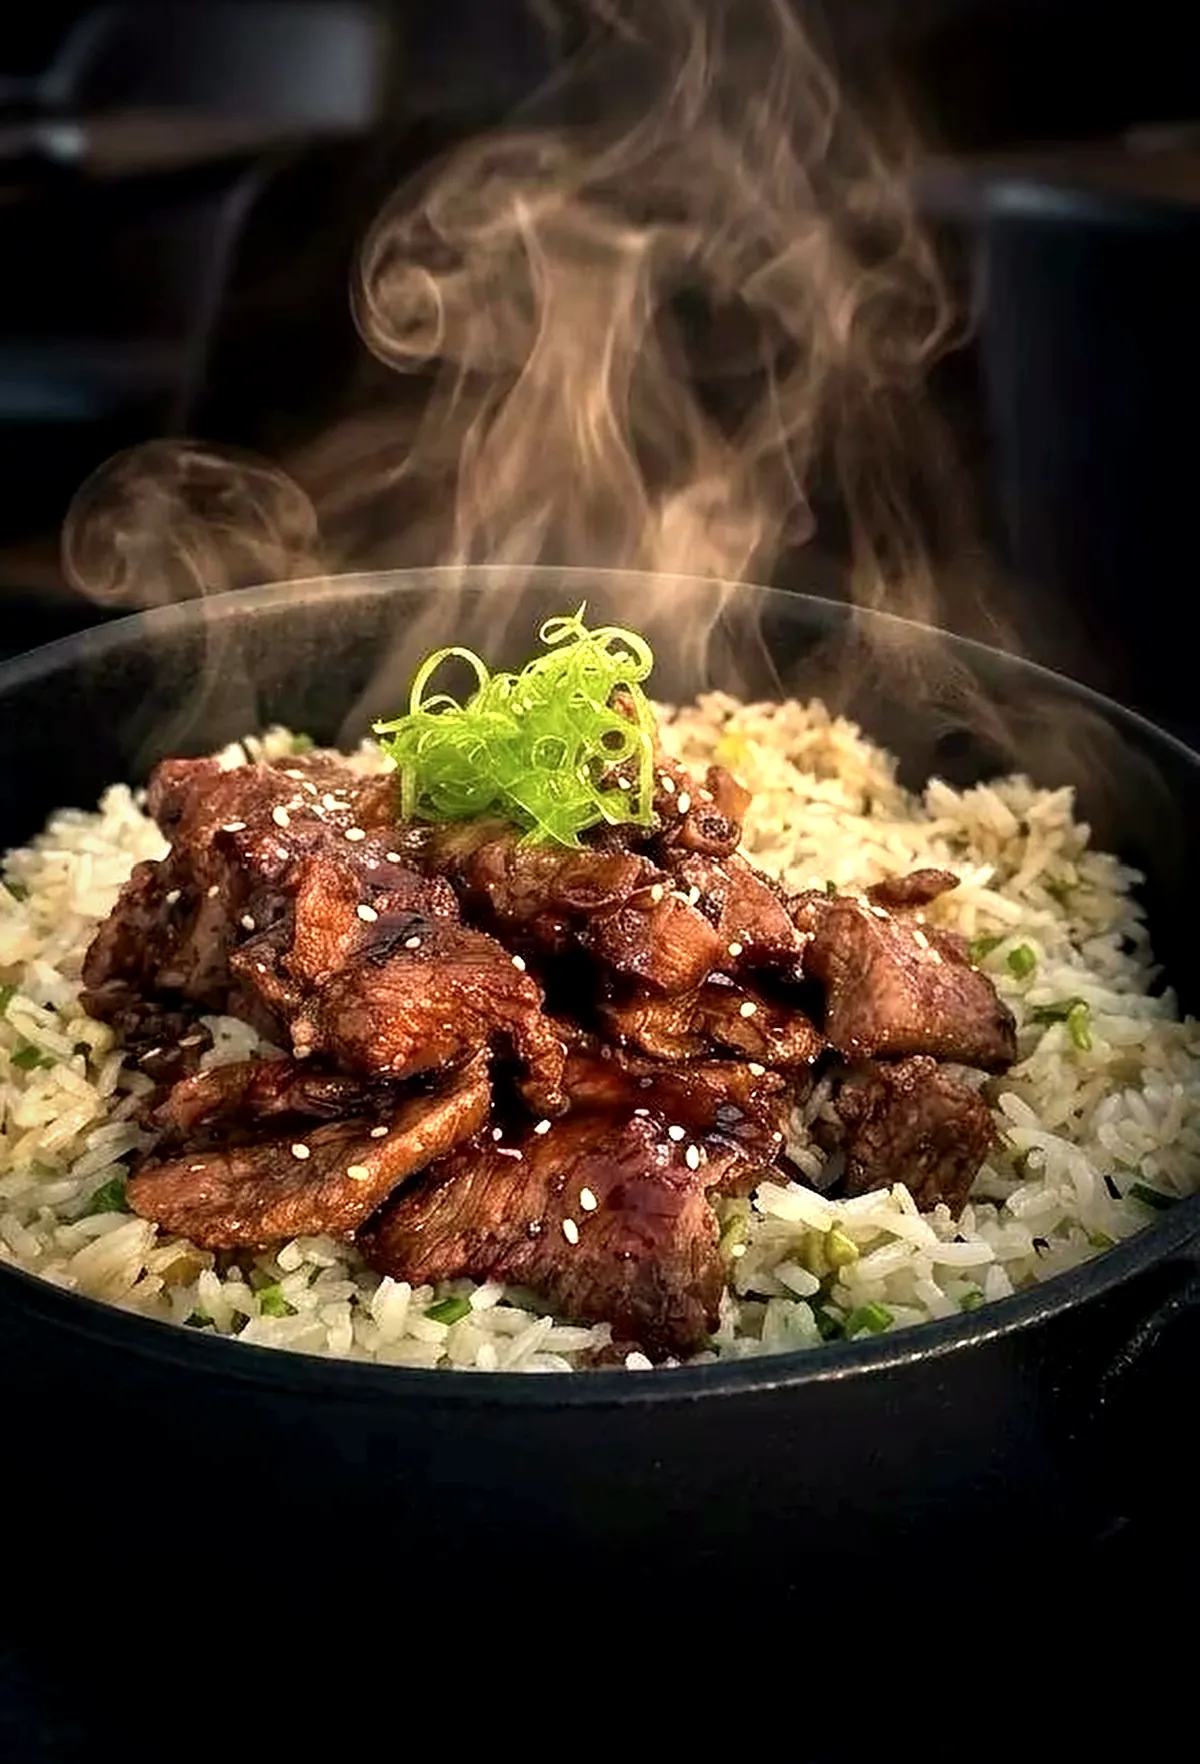
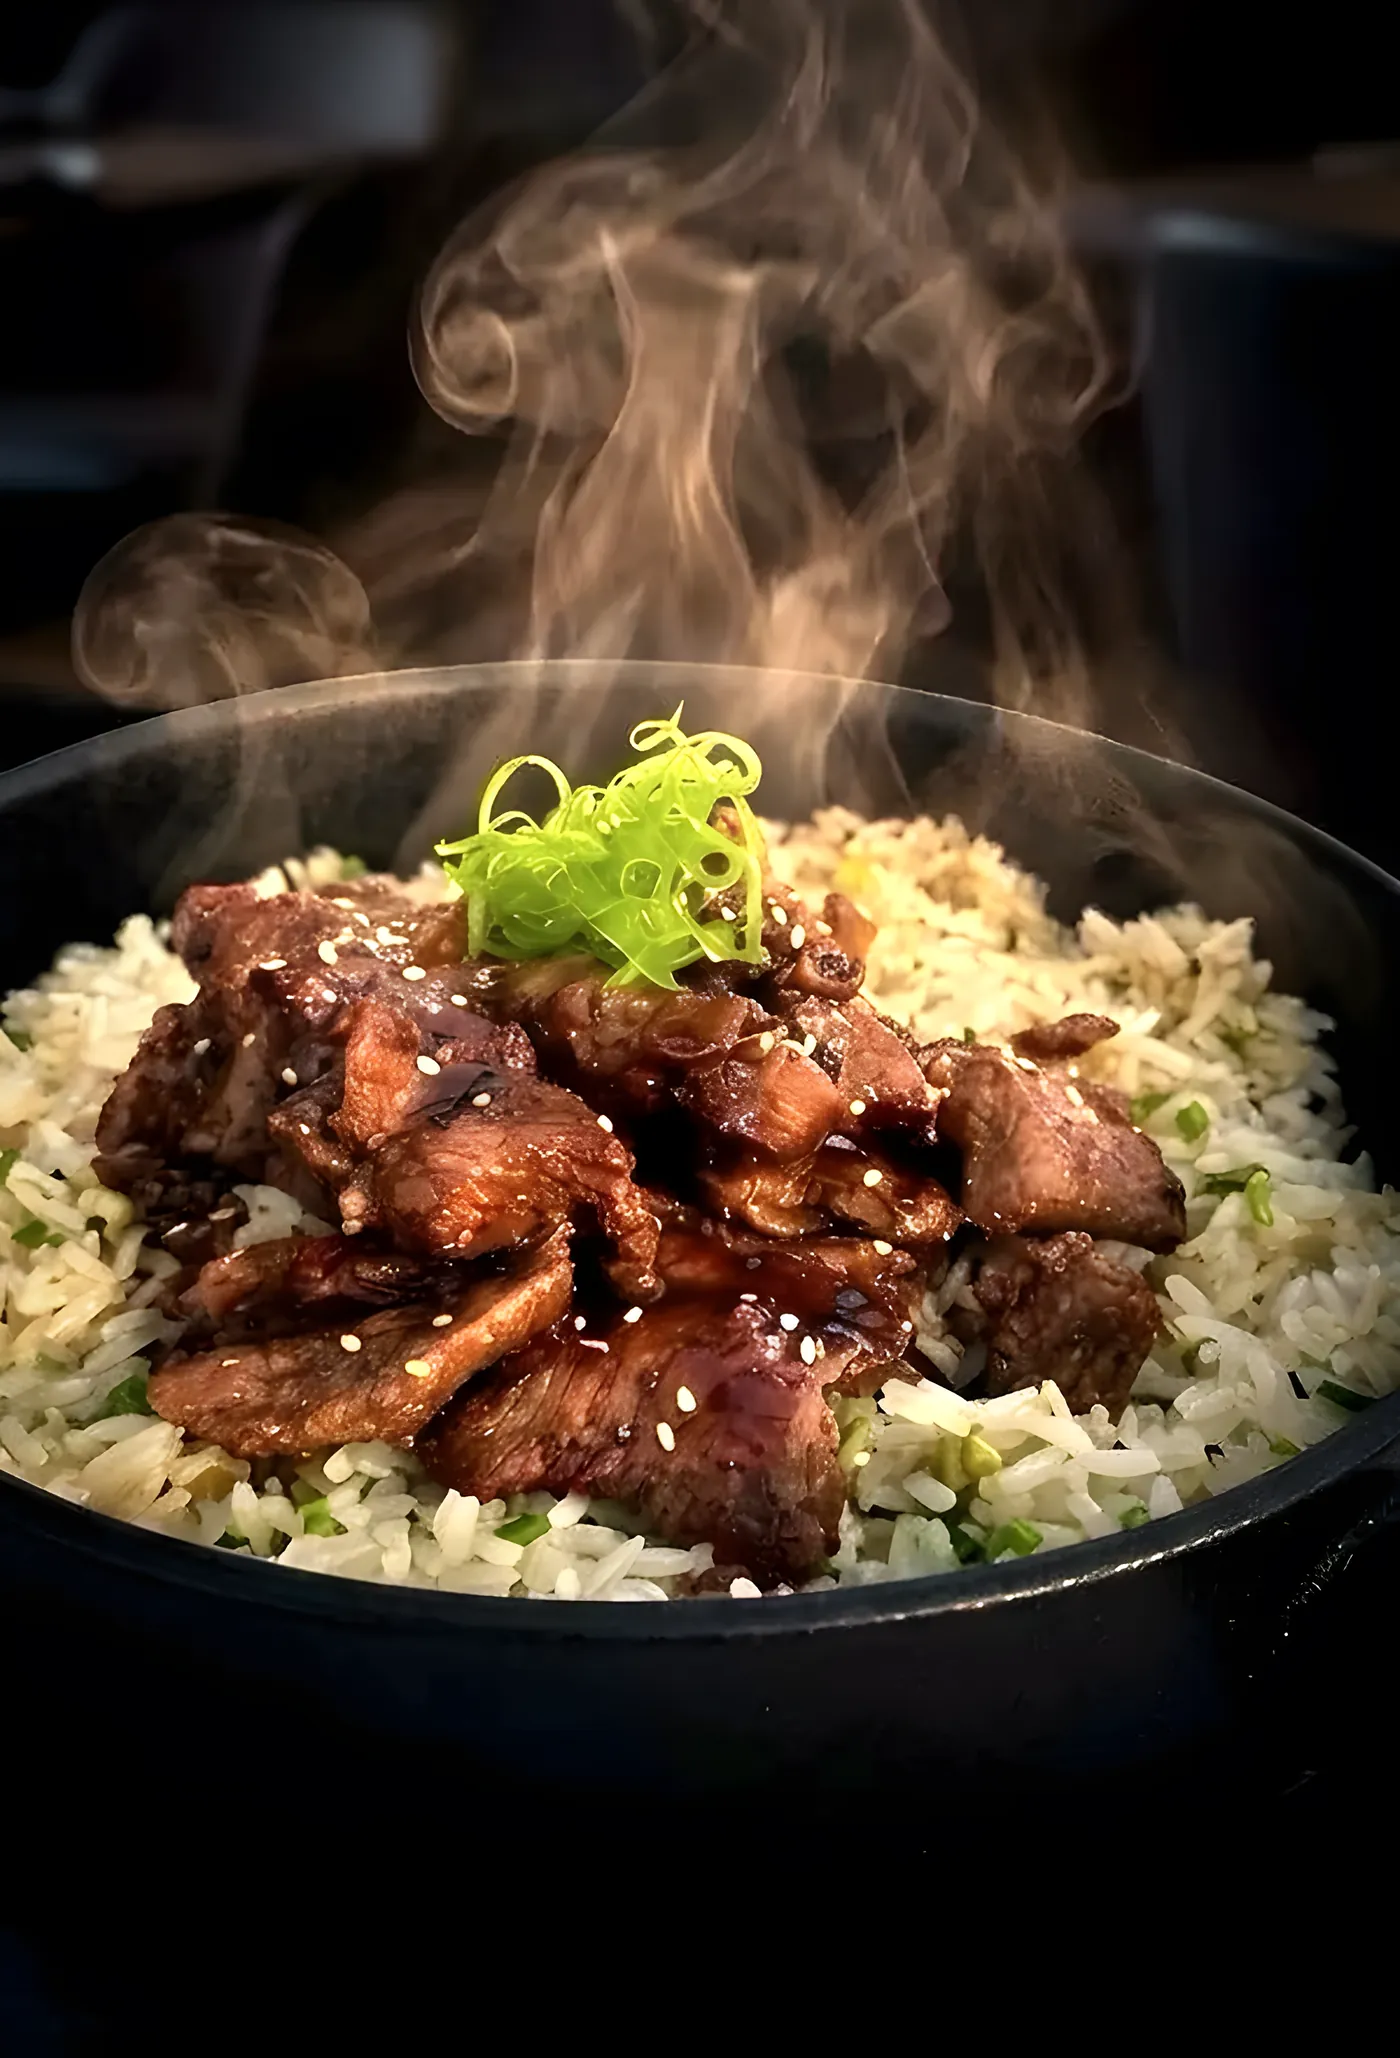
feat(media): fotos restauradas com super-resolução (Real-ESRGAN) em 1400px
As 21 fotos (pratos e bar) estavam moles (capturas ampliadas). Restauradas com
Real-ESRGAN x4plus mantendo o recorte e o tratamento de cor; saída 1400px WebP.
Card em destaque com foto horizontal usa 4:3 no celular (não corta as laterais).

Claude-Session: https://claude.ai/code/session_019aJQUxbSJerFoShsGptvPq

diff --git a/data/media.ts b/data/media.ts
@@ -37,88 +37,88 @@ const photo = (id: string, width: number, height: number, alt: Localized): Media
   m({ id, kind: "image", src: `/media/${id}.webp`, width, height, alt, available: true });
 
 export const photos = {
-  hamachiRollNigiri: photo("hamachi-roll-nigiri", 1200, 1686, {
+  hamachiRollNigiri: photo("hamachi-roll-nigiri", 1400, 1967, {
     es: "Roll y nigiri de hamachi flameado sobre hoja de plátano",
     en: "Seared hamachi roll and nigiri on a banana leaf",
   }),
-  lomoSaltadoCausa: photo("lomo-saltado-causa", 1200, 1493, {
+  lomoSaltadoCausa: photo("lomo-saltado-causa", 1400, 1741, {
     es: "Lomo saltado con causa limeña y salsa criolla",
     en: "Lomo saltado with causa limeña and criolla salad",
   }),
-  arrozCamaron: photo("arroz-camaron", 1200, 1193, {
+  arrozCamaron: photo("arroz-camaron", 1400, 1391, {
     es: "Arroz salteado con camarones y huevo pochado en sartén de hierro",
     en: "Fried rice with shrimp and a poached egg in a cast-iron pan",
   }),
-  nigiriExperience: photo("nigiri-experience", 1200, 803, {
+  nigiriExperience: photo("nigiri-experience", 1400, 938, {
     es: "Selección de ocho nigiri alrededor de salsa de soya",
     en: "Selection of eight nigiri around soy sauce",
   }),
-  duckRice: photo("duck-rice", 1200, 1740, {
+  duckRice: photo("duck-rice", 1400, 2030, {
     es: "Arroz Nikkei con pato asado en sartén de hierro",
     en: "Nikkei rice with roasted duck in a cast-iron pan",
   }),
-  salmonRoll: photo("salmon-roll", 1200, 1767, {
+  salmonRoll: photo("salmon-roll", 1400, 2063, {
     es: "Roll de salmón flameado con salsa sobre mármol",
     en: "Seared salmon roll with sauce on marble",
   }),
-  artesanoDessert: photo("artesano-dessert", 1200, 1791, {
+  artesanoDessert: photo("artesano-dessert", 1400, 2091, {
     es: "Wontons crocantes con helado y chocolate",
     en: "Crispy wontons with ice cream and chocolate",
   }),
-  sashimiSelection: photo("sashimi-selection", 1200, 1734, {
+  sashimiSelection: photo("sashimi-selection", 1400, 2023, {
     es: "Selección de sashimi de atún y salmón sobre hielo",
     en: "Tuna and salmon sashimi selection on ice",
   }),
-  nagasakiBeefRice: photo("nagasaki-beef-rice", 1200, 1764, {
+  nagasakiBeefRice: photo("nagasaki-beef-rice", 1400, 2058, {
     es: "Carne glaseada sobre arroz salteado al wok",
     en: "Glazed beef over wok-fried rice",
   }),
-  mitokoTataki: photo("mitoko-tataki", 1200, 1791, {
+  mitokoTataki: photo("mitoko-tataki", 1400, 2091, {
     es: "Tataki de atún sellado con salsa y naranja",
     en: "Seared tuna tataki with sauce and orange",
   }),
-  wakameKukuSalad: photo("wakame-kuku-salad", 1200, 1760, {
+  wakameKukuSalad: photo("wakame-kuku-salad", 1400, 2053, {
     es: "Ensalada de wakame, mango, pepino y aguacate",
     en: "Wakame, mango, cucumber and avocado salad",
   }),
-  nigiriWine: photo("nigiri-wine", 1200, 1788, {
+  nigiriWine: photo("nigiri-wine", 1400, 2086, {
     es: "Nigiri variados con una copa de vino tinto",
     en: "Assorted nigiri with a glass of red wine",
   }),
   // Do Instagram @mikasa.restaurant (recortadas da publicação e tratadas)
-  tiradito: photo("tiradito", 1200, 1500, {
+  tiradito: photo("tiradito", 1400, 1750, {
     es: "Tiradito de pescado blanco con salsa amarilla, ají y crocante",
     en: "White fish tiradito with yellow sauce, chili and crispy garnish",
   }),
-  robataSteak: photo("robata-steak", 1200, 1373, {
+  robataSteak: photo("robata-steak", 1400, 1601, {
     es: "Corte de res a la parrilla en láminas con ensalada, vegetales y puré",
     en: "Sliced grilled beef with salad, vegetables and purée",
   }),
-  barWhisky: photo("bar-whisky-kamiki", 1000, 1470, {
+  barWhisky: photo("bar-whisky-kamiki", 1400, 2058, {
     es: "Whisky japonés Kamiki Blended Malt con su estuche",
     en: "Kamiki Japanese blended malt whisky with its box",
   }),
-  barVinos: photo("bar-vinos", 1000, 1551, {
+  barVinos: photo("bar-vinos", 1400, 2172, {
     es: "Botellas de vino Ramón Bilbao y Minuty Côtes de Provence en la terraza de MIKASA",
     en: "Ramón Bilbao and Minuty Côtes de Provence wine bottles on the MIKASA terrace",
   }),
-  barHatsu: photo("bar-hatsu-tea", 1000, 1606, {
+  barHatsu: photo("bar-hatsu-tea", 1400, 2249, {
     es: "Botellas de Hatsu tea frente a la entrada de MIKASA",
     en: "Hatsu tea bottles in front of the MIKASA entrance",
   }),
-  mochiIceCream: photo("mochi-ice-cream", 720, 900, {
+  mochiIceCream: photo("mochi-ice-cream", 1400, 1750, {
     es: "Mochi con helado de la casa servido en sartén negra",
     en: "Mochi with house-made ice cream served in a black pan",
   }),
-  spicyTunaSavageRoll: photo("spicy-tuna-savage-roll", 720, 900, {
+  spicyTunaSavageRoll: photo("spicy-tuna-savage-roll", 1400, 1750, {
     es: "Spicy Tuna Savage Roll con atún picante sobre bandeja de pizarra",
     en: "Spicy Tuna Savage Roll topped with spicy tuna on a slate tray",
   }),
-  generalTso: photo("general-tso", 720, 900, {
+  generalTso: photo("general-tso", 1400, 1750, {
     es: "General Tso con ajonjolí sobre arroz, servido en sartén de hierro",
     en: "General Tso with sesame over rice, served in a cast-iron pan",
   }),
-  nigiriAtun: photo("nigiri-atun", 960, 1200, {
+  nigiriAtun: photo("nigiri-atun", 1400, 1750, {
     es: "Cuatro nigiri de atún con hoja de shiso y salsa de soya",
     en: "Four tuna nigiri with a shiso leaf and soy sauce",
   }),

diff --git a/components/menu/menu-explorer.tsx b/components/menu/menu-explorer.tsx
@@ -199,7 +199,7 @@ function FeatureCard({ item, lang, wide, onOpen }: { item: MenuItem; lang: Local
         onClick={() => onOpen(item)}
         className={cn("group grid h-full w-full text-left", side ? "gap-6 md:grid-cols-2 md:items-center md:gap-10" : "content-start gap-6")}
       >
-        <div className={cn("relative w-full overflow-hidden border border-line bg-carvao", panorama ? "aspect-[4/5] md:aspect-[16/9]" : "aspect-[4/5]")}>
+        <div className={cn("relative w-full overflow-hidden border border-line bg-carvao", panorama ? "aspect-[4/3] md:aspect-[16/9]" : "aspect-[4/5]")}>
           <MediaFrame
             asset={item.imagem}
             lang={lang}
